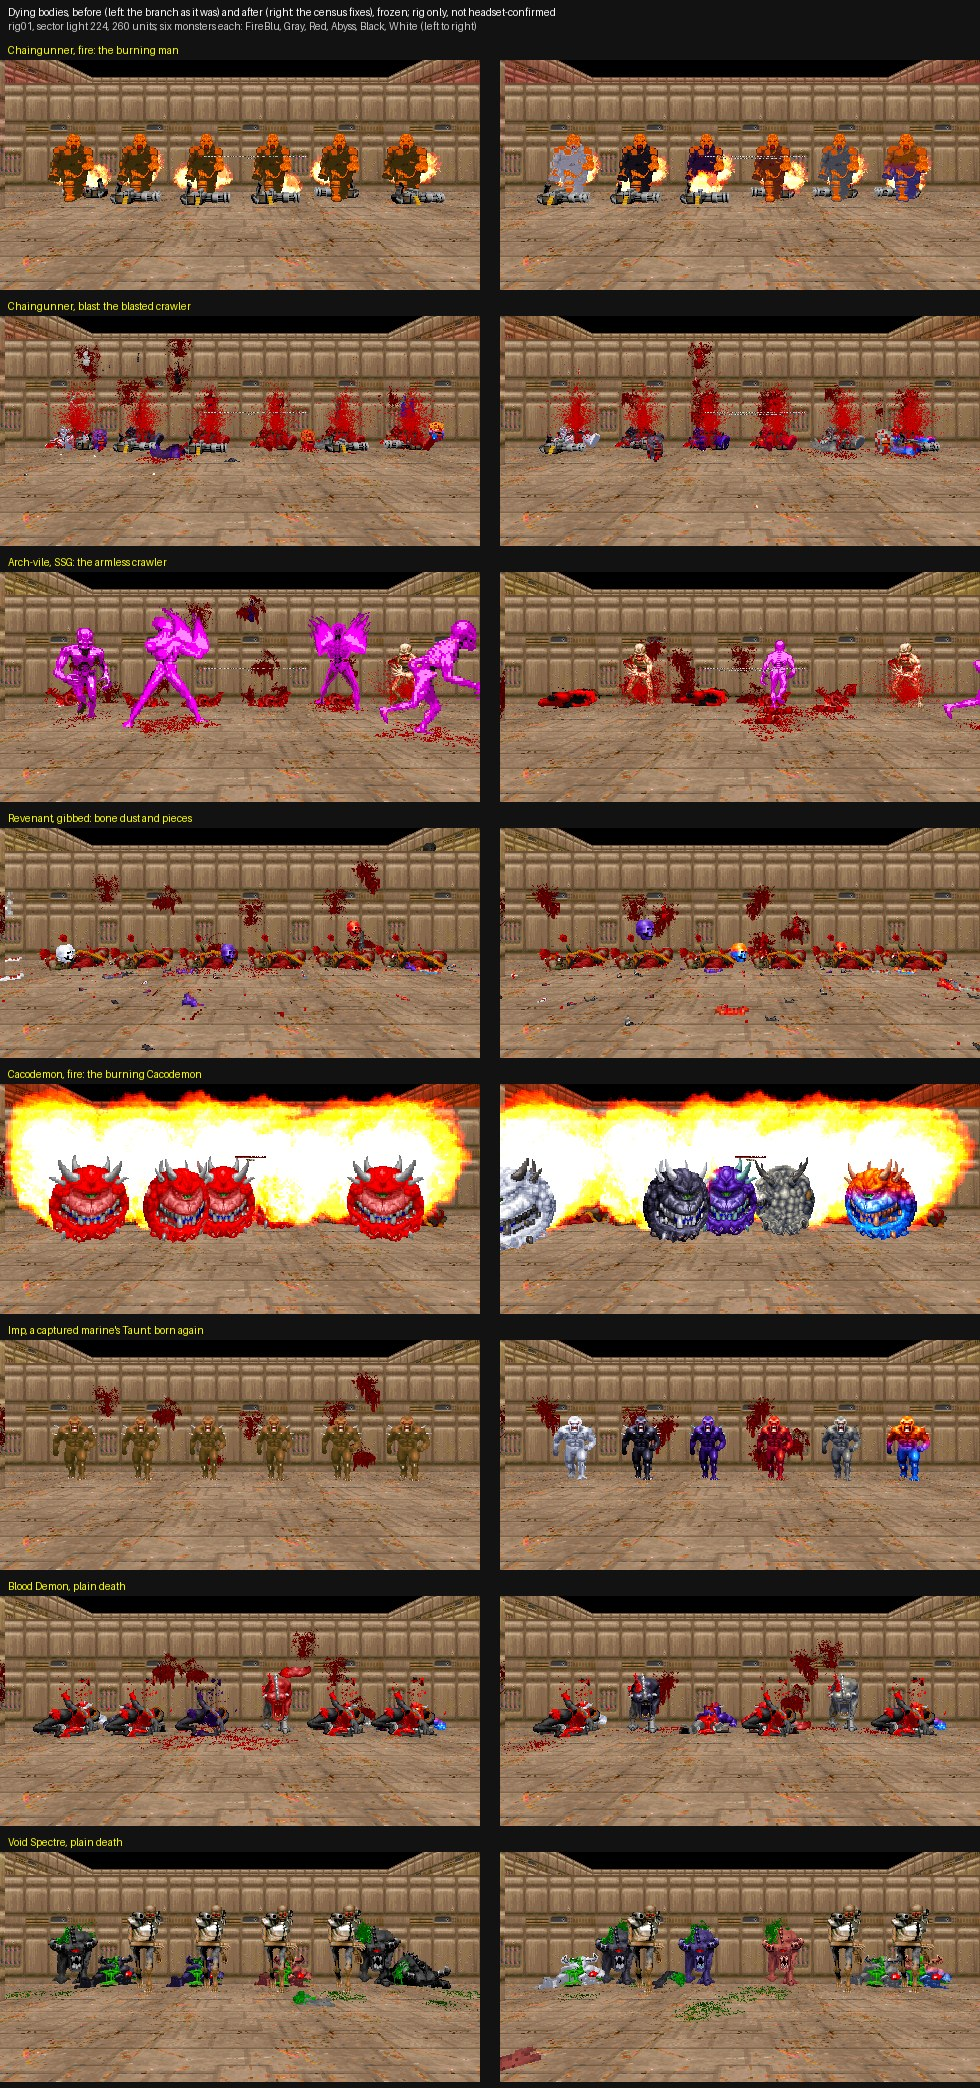
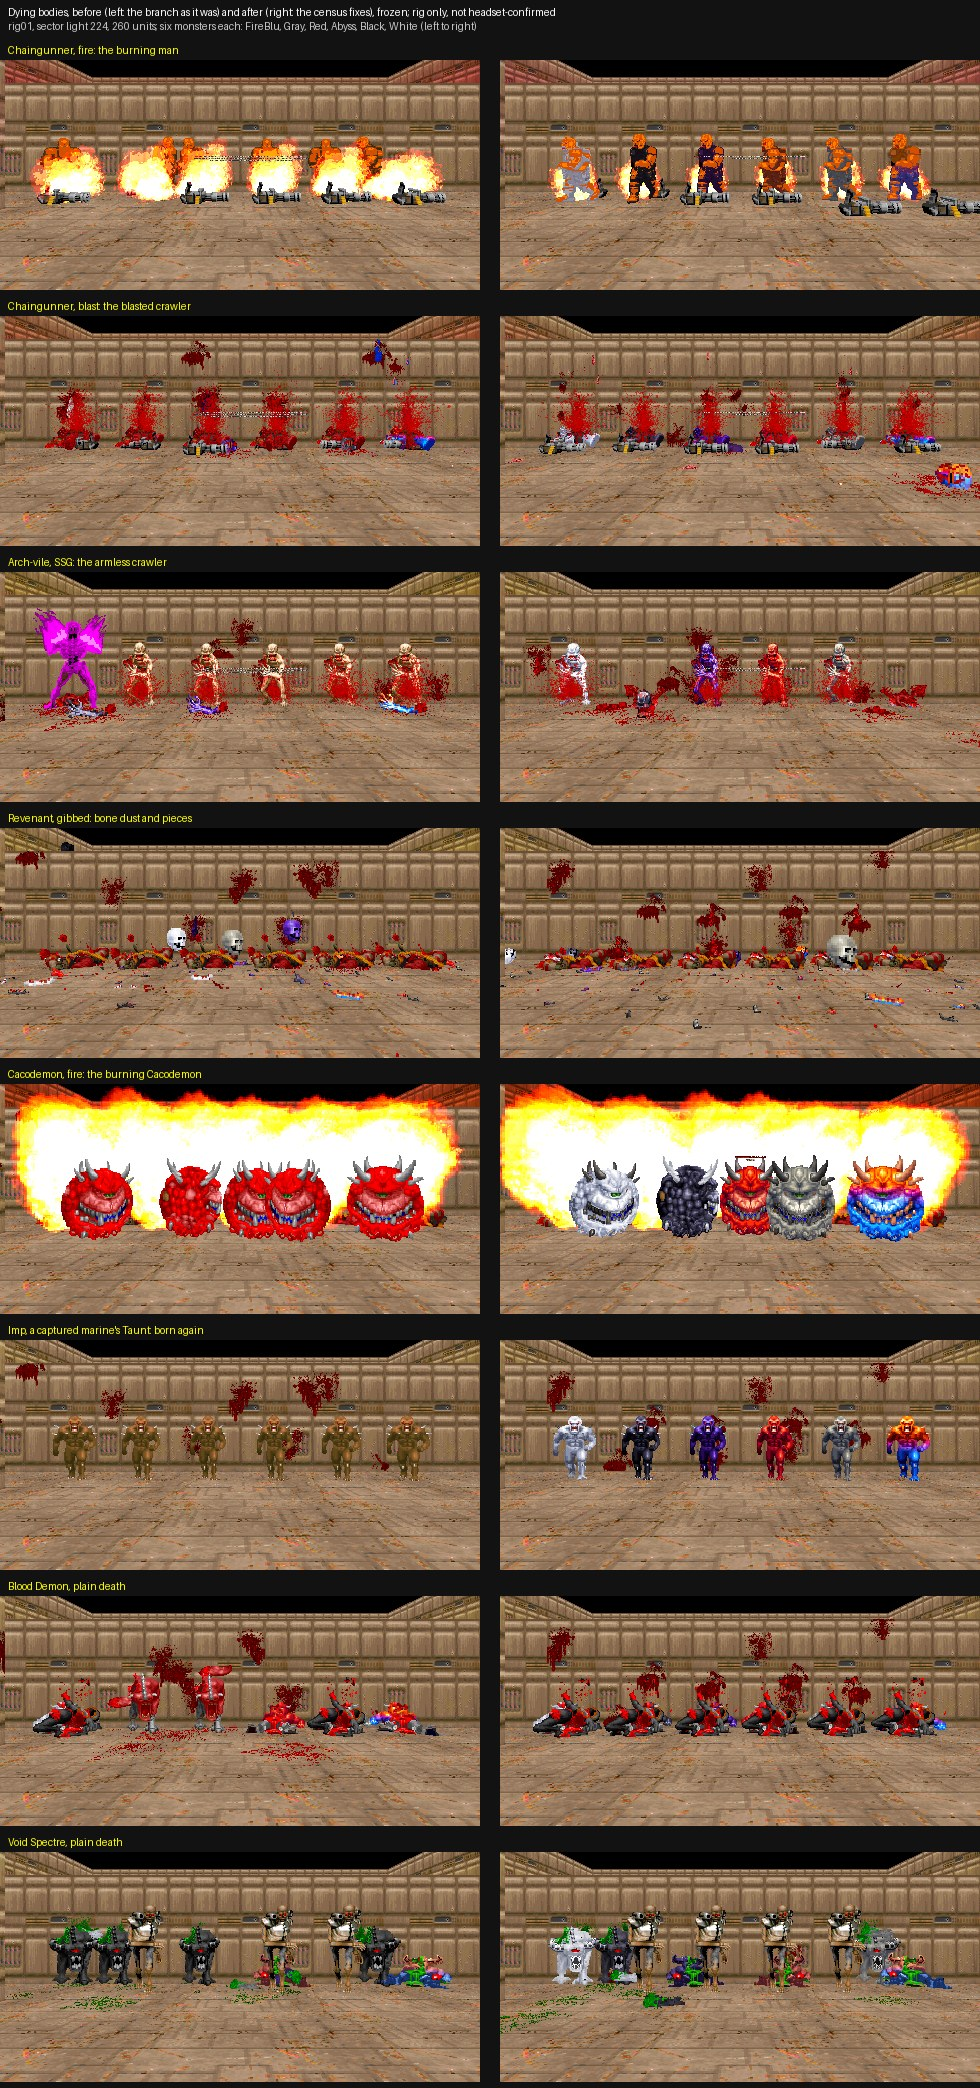
RSQ Monsters: a clashing frame draws BD22's art (owner: "Bd22 look is right"); the dying-body census, before and after (rig only, not headset-confirmed)
RS_BDArt: when a frame's lump has no art and names a rotation (RSQ Monsters' ColorfulHell sprites under BD22/XMVE names,
BOSBE1, VILPA1D1, TRO3B1 ...), the frame's single-rotation art is drawn unmirrored. Carry: the Arachnotron's blue spark
ShoqueAzul keeps its own look. MonsterRecolour/README: the census over 155 of 158 classes, every death type, before and
after (bodies holding no colour 7,930 -> 2,288 actor-snapshots, summons apart), what was missing, the sprite clash and the
owner's decision, what is left; the frames sheet recut after the fallback.

Claude-Session: https://claude.ai/code/session_01T9sgexanVZjoP3xsCEqags

diff --git a/MonsterRecolour/README.md b/MonsterRecolour/README.md
@@ -461,3 +461,118 @@ Seen on the rig, not this family's (for the owner / other families):
   `SkeletonDemonSpawn`, `SkullShotgunnerSpawn`, `CacoLichSpawn`). Left as they are (an RSQ Monsters Carry question, not
   art).
 
+
+## Every dying body (2026-11-13/14, the dying-body census; rig only, not headset-confirmed)
+
+The question: does every BD22 and XMVE body a tier-coloured monster turns into or spawns carry its colour? The census
+(`Monsters/tools/recolour/rig/rcf_census.py`, handler template `rcf_census_zs.tpl` -> `rcFcensus/`, class table
+`rcf_classes.txt` from `rcf_classes.py`, arena `rcf_arena.py`): on his full order (`rcE_full.sh`, `-skill 6`), every
+tierable class of the ladder is killed by EVERY death its DECORATE has (`Death.<type>`, its parents' included; plus two
+plain deaths and a gib), one monster a cell, each cell its own colour (the twelve cycle), all in the same tic (`DMG_FORCED`
+with that damage type), and every actor on the arena is looked at 4, 14, 35, 70 and 140 tics after: drawn from the art,
+on the tint, or holding NO colour (blood, mist, fire, smoke, effects and pickups by RSQ Monsters' own name rule are not
+counted: they keep their own). Counts are actor-snapshots. Legion of Bones' undead are taken away by the handler.
+"before" = the branch at ea87f7fd16 (its art), "after" = this commit with the art at d732bbe908 (the gore pass in: most of
+the art/tint shift is the new art, the NONE column is this work). "summon" = Lost Souls, Phantasms, Impure Souls and
+Aracnorbs that other monsters spit, alive or as pieces: separate monsters at the world tier, not the killed body (design
+2.8 gives a summon its summoner's colour only for the Pain Elemental's Lost Souls; not changed here).
+
+```
+family                cls             art b|a            tint b|a            none b|a          summon b|a     none %b|a
+Arachnotron             4          665 | 1910          5713 | 913              93 | 0               0 | 0       1.4|0.0
+Arch-Vile               2           167 | 629             516 | 1              22 | 0               0 | 0       3.1|0.0
+Baron                  13         1170 | 4183          5039 | 123              59 | 9               0 | 0       0.9|0.2
+Cacodemon               9         4317 | 5726          4424 | 717           1427 | 22         1576 | 1595      12.2|0.3
+Chaingunner            23        3425 | 15399         13628 | 470           551 | 139               0 | 0       3.1|0.9
+Cyberdemon             12           204 | 863          1584 | 154            120 | 14               0 | 0       6.3|1.4
+Demon                   5         1243 | 5271          4462 | 243            170 | 59               0 | 0       2.9|1.1
+Hell Knight             5         1093 | 7314          5705 | 488           119 | 213               0 | 0       1.7|2.7
+Imp                     7         1922 | 9670           7943 | 99           179 | 197               0 | 0       1.8|2.0
+Lost Soul               6           691 | 750             69 | 94              20 | 0               0 | 0       2.6|0.0
+Mancubus                6          997 | 6049           5598 | 65             56 | 13               0 | 0       0.8|0.2
+Pain Elemental          4           132 | 612          1950 | 127             10 | 42           343 | 676       0.4|2.9
+Revenant                4         1986 | 3356           4140 | 49          1268 | 202          115 | 1518      16.9|3.9
+Shotgunner             18        4111 | 15250         15125 | 276          1664 | 191              15 | 0       8.0|1.2
+Spectre                 3          513 | 1906           1404 | 66             85 | 40               0 | 0       4.2|2.0
+Spider Mastermind       8          605 | 2263          3140 | 471              21 | 0           225 | 225       0.5|0.0
+Zombieman              26        4609 | 22018         17911 | 223         2066 | 1147               0 | 0       8.4|4.9
+ALL                   155      27850 | 103169        98351 | 4579         7930 | 2288         2274 | 4014       5.8|2.0
+```
+
+Holding no colour, by death type (actor-snapshots, summons left out), before | after:
+
+```
+  plain             647 | 406
+  gib/explosion    1914 | 380
+  fire              810 | 392
+  ice               145 | 94
+  head              634 | 155
+  legs               73 | 44
+  fatality/grab     690 | 174
+  other            3019 | 643
+```
+
+What was missing, and the fix (all in `RS_BDTier.zs` / `RS_BDArt.zs`):
+- **Bodies that never go away.** Brutal Doom's men end many deaths on `TNT1 A -1` after spawning their crawler or
+  corpse, so the maker is never removed and Carry found no body (the Chaingunner's blasted, burning and headless
+  crawlers `BrutalizedCommandoBlasted`, `BurningChaingunguy`, `BrutalizedCommandoLostHead*` and their corpses). Fix: a body that died within 64 units in the last 4 s and still
+  lies there counts as the maker (nearest wins, with the removed bodies; a body at its entry colour still gives none).
+- **Death stages that are family monsters** got a fresh kit at the world tier (as shipped): the Arch-vile's armless
+  crawler `DyingArchvileNoArm`, the Demon's `PoorPinkyLostHisArm` / `ArmlessDemon`, `DyingHellKnight1`. Fix: a family
+  monster spawned mid-map that counts no kill takes the body's rung (and never calls for help).
+- **Born again.** `Death.Taunt` / `Death.KillMe` (a captured marine's hit) removes the monster and spawns a fresh copy of
+  the replaced class (his random spawners can make it another kind of the same family): it came back as shipped, at the
+  world tier's numbers. Fix: one of the same family spawned on the spot (16 units, 3 tics) takes the body's rung.
+- **Friendly death stages** (`BurningCacodemon`, `BurningZombieMan`, `DyingZombieman` ... are `+FRIENDLY -COUNTKILL`)
+  were skipped entirely. Fix: they follow the body (anything named "marine" stays out: the helper marines).
+- **Bodies thrown as missiles that hurt** (`ExtremePunchedChaingunguy`) were taken for attacks. Fix: a damaging missile
+  whose maker is gone or dead and whose states draw painted art follows the body (fireballs draw none).
+- **Fatalities.** The monster dies and gives the player `GoFatality`; the PLAYER plays the kill (`ARF1` and kin, painted
+  with the families) and throws the gore and the corpse (`RapedArachnotron`). None of it held a colour. Fix: while the
+  player holds `GoFatality` (and 2 tics after) what it throws takes the colour of that player's last kill, and the
+  player's own fatality frames are drawn from the art (`RS_BDFatalHue`: art only, never the tint; the player's own
+  translation is put back). `docs/deathcarry_fatality_arachnotron_red_before_after.jpg`.
+- **Named like an effect, painted like a body**: `RevenantDust` (the Revenant's bone dust, `SPIC`, painted with its
+  family), `BurningCacodemon` (its own `HEAD` frames), `XDeathBurnedBlueMeat` (`CACB`). Fix: a thing the name rule calls an
+  effect follows the body when its states draw a sprite that has painted art, never when its name says blood, mist, gore,
+  fire, smoke or another effect (Brutal Doom's blood mist draws the painted gore sprites `XDT1`: it stays blood).
+- **Kept their own look now** (the gore pass's note and this census): craters (`DetectFloorCrater*`), metal shards
+  (`MetalShard1-3`), scrap (`XJunk1-5`), the ice chunks of a shattered frozen body (`XIceChunk1-3`: ice keeps its own, as
+  in the family files), the Arachnotron's blue spark (`ShoqueAzul`), and every Legion of Bones class by name (its risers
+  `SkullZombieSpawn` and kin: when a riser becomes a monster with a family, that monster gets its own kit).
+- **The driver** put every painted body back on the tint for a tic when the camera went away (Brutal Doom's fatality
+  camera ending: every dying body at once, 35 tics into a fatality). Fix: no camera, no change that tic.
+
+**The tint where art exists (the Demon's, Cacodemon's and others' death sets): a sprite clash, not the driver.**
+RSQ Monsters' ColorfulHell port ships 51 sprites under BD22 / XMVE names (`BOSB BOSC BOS2 BOS3 VILP DIAB TRO3 TRO4 CACB
+CACF CACX FAT2 FAT3 FAT4 FATF ARAC BSPI CSPI DEMO SKEL ZKEL TERM SRG2 ASGZ MPOS CYBB ...`, 584 frame letters; about 17 are
+byte-identical copies, the rest ColorfulHell's own pictures) and loads after BD22 and XMVE, so the engine draws ColorfulHell's
+frame for every letter both define: BD22's Hell Knight's burnt death shows a blue CH Baron, the Arch-vile's head gib a
+magenta CH Arch-vile, `TRO3` (the coordinator's 22 tics of TRO3 on the tint) CH's imp, and so on; their lump names
+carry rotations (`BOSBE1`) where the art has `BOSBE0`, so no art was found. The owner's call (11-14 01:05): **"Bd22 look
+is right"**: RSQ Monsters' versions are not painted. The driver now falls back to the frame's single-rotation art
+(`BOSBE1` -> `BOSBE0`, unmirrored), so a coloured body draws BD22's look. Still open (not colour, so not done here): the
+same clash makes those frames show ColorfulHell's picture on monsters at their entry colour (as shipped), and on frames
+where both sides have rotations under different letters. `docs/deathcarry_sprite_clash_bd_vs_rsqmonsters.jpg`.
+
+Frames (rig01, sector light 224, 260 units; test-only: weapon, laser, bars, Kill Rewards off, `ue_recolour 0`):
+`docs/deathcarry_scenes_before_after.jpg` (FireBlu to White, frozen: the burning man, the blasted crawler, the
+Arch-vile's armless crawler (BD22's look now, not ColorfulHell's magenta), the Revenant gibbed, the burning Cacodemon,
+the Taunt rebirth, the Blood Demon's and Void Spectre's plain deaths), `docs/deathcarry_fatality_arachnotron_red_before_after.jpg`.
+No script error and no VM abort from our packs in any census or frame run (BD22 VoxelPack's own VOXELDEF lines as on main).
+
+Left (after):
+- **Not censused: they stop the rig, before and after alike** (killed by all their deaths at once the engine hangs or the
+  level ends): `SuperOverlord`, `AracnorbQueenBOSSBOSS`, `SuperSpiderMastermindX` (a boss death ends the map), and some
+  batches of `Labguy` (its fire deaths: BD22's `BurningZombie` has `Spawn: BDT1 B 0 ... Loop`, a 0-tic loop: "Infinite
+  state loop", then the rig stalls), `RifleCommando` and its two XMVE kinds, `HellTrooper`, `BFGZombie`,
+  `Vanilla_HellTrooper`, `Annihilator`, `Vanilla_Demolisher`, `LabguyB` (one batch each). For the owner: a fire kill of a
+  BD22 scientist may stall the game on his order too (seen on the rig only).
+- A few pieces still hold no colour (2,288 actor-snapshots of 110,036): the Void Spectre's `VoidSpectreHeadPiece`
+  thrown far from the body by Draugr / Incarnate deaths, some `BurningZombieMan` (Red, Black, White cells), generic gore
+  whose maker is a summon at the world tier, some zombie falling / splattered stages (`ZombiemanFallingSplattered`,
+  `DeadZombieMan_Blasted`), `Ricochet` (an effect, correctly none).
+- On the tint (no art, by the families' choices): Brutal Doom's generic flesh parts `ID22` (`SpiderPart*`, `PEPart*`,
+  `Aracnorb_Brain`), frozen bodies that are all ice (`FZD5` ...), ashes (`ASHZ`, `ASHY`), the marine half `HPLA`.
+- Summons (Lost Souls, Phantasms, Impure Souls, Aracnorbs spat by other monsters) come at the world tier: design 2.8 only
+  covers the Pain Elemental's Lost Souls. Not a body question; the owner's call.
